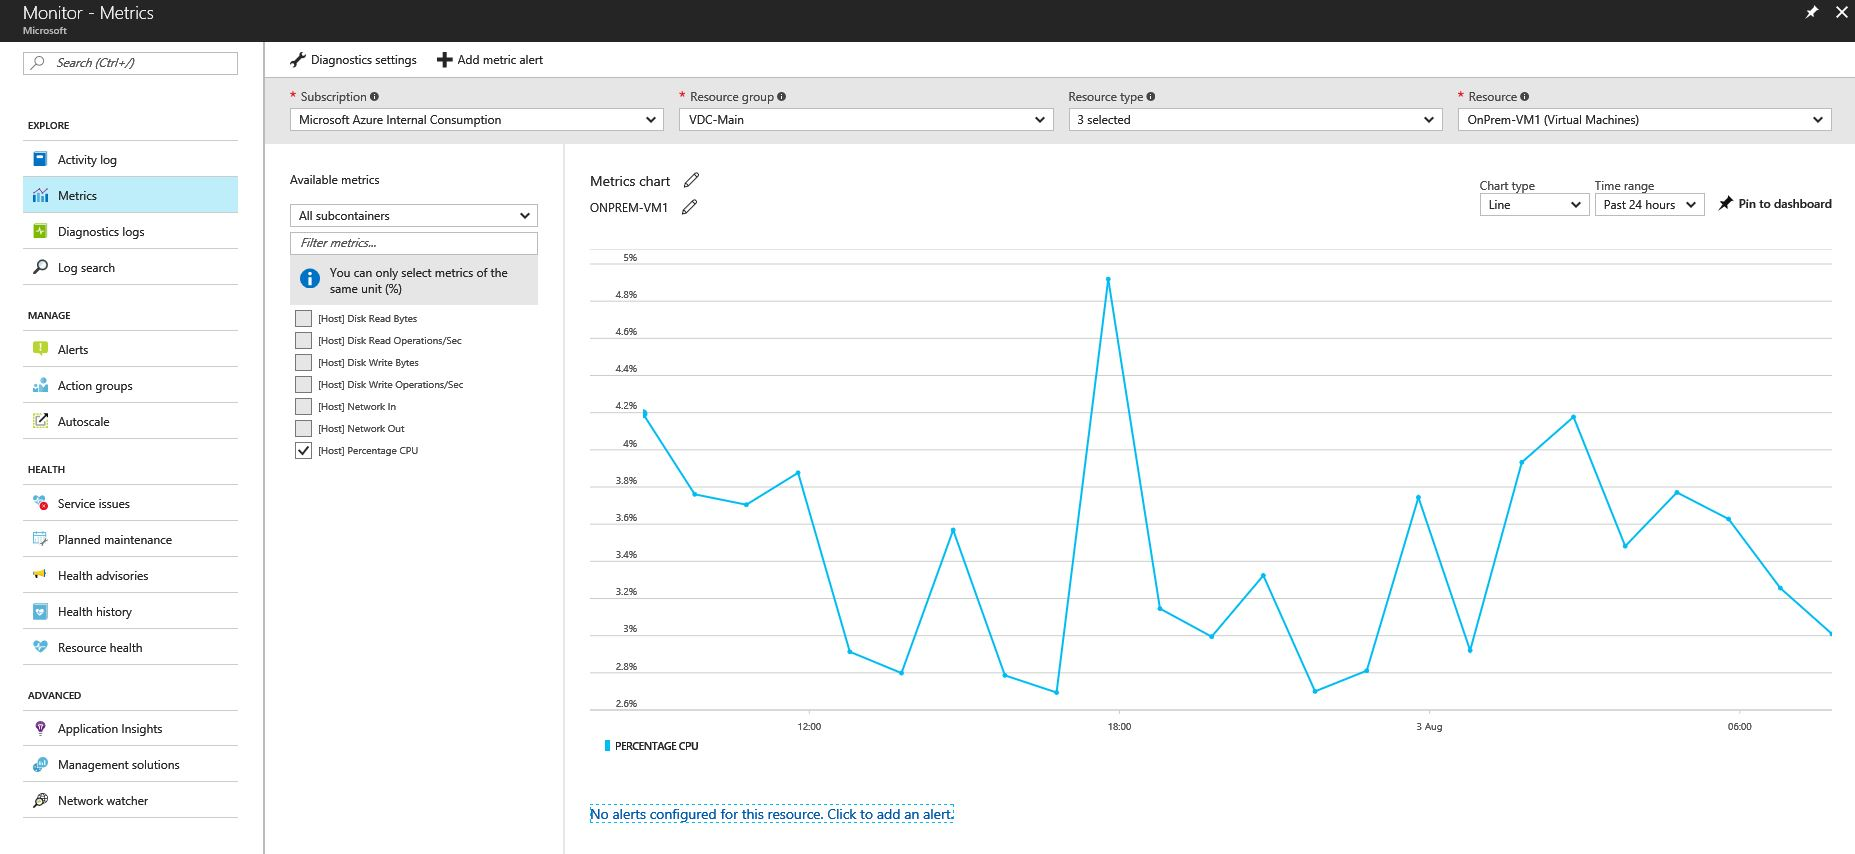
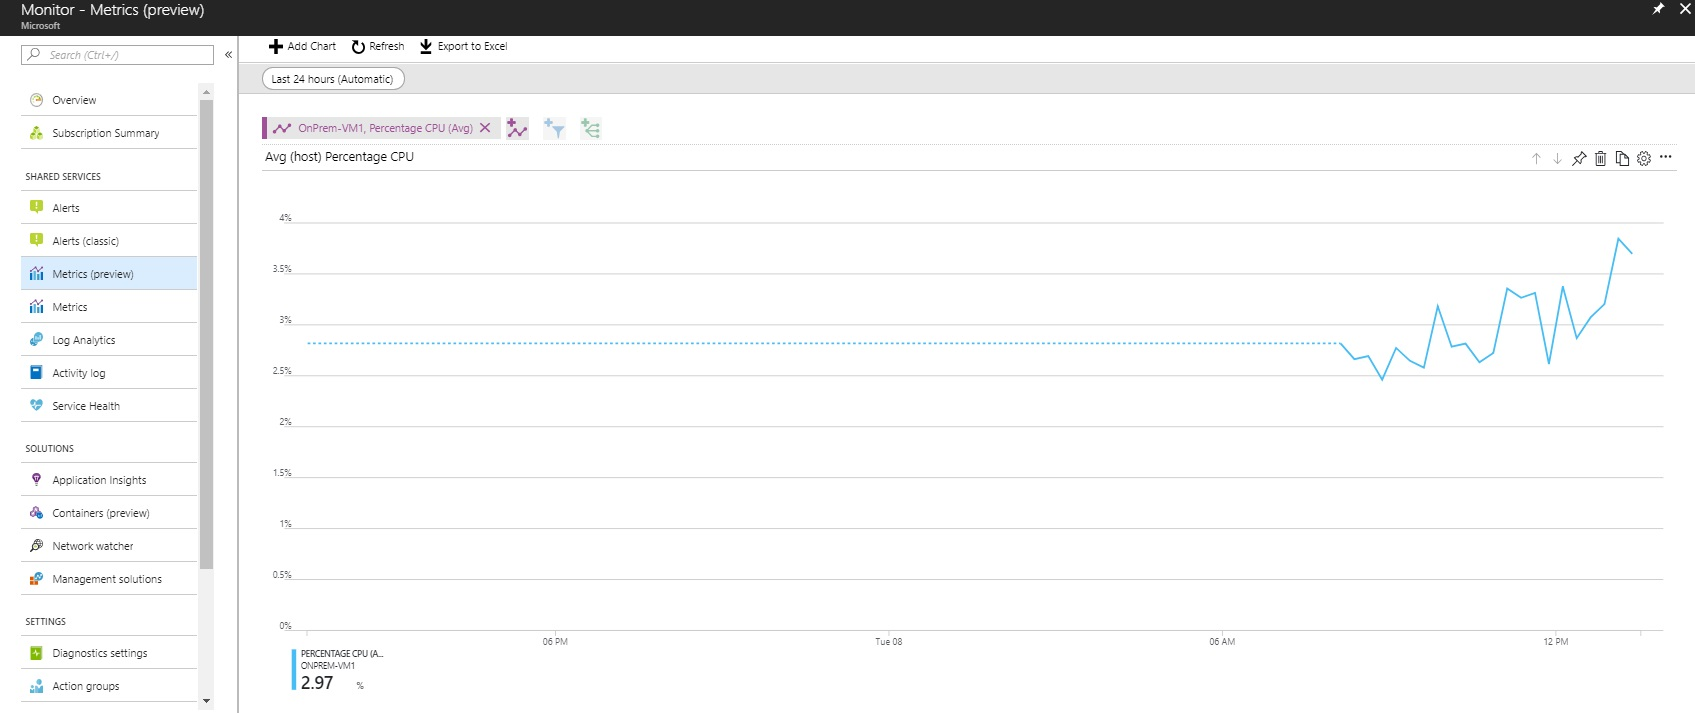
Updates to policy section

diff --git a/readme.md b/readme.md
@@ -26,6 +26,8 @@
 
 - [3.3: Implementing Azure Resource Policies](#armpolicies)
 
+- [3.4: Monitor Compliance Using Azure Policy](#policycompliance)
+
 **[Lab 4: Monitor the VDC Environment](#monitor)**
 
 - [4.1: Enable Network Watcher](#netwatcher)
@@ -409,7 +411,7 @@ Our NSG will define two inbound rules - one for HTTP and another for TCP port 30
 
 **1)** In the Azure portal under the resource group VDC-Hub, click 'Add' and search for 'Network Security Group'. Create a new NSG named *Hub-NSG*.
 
-**2)** Navigate to the newly created NSG and select it. Select 'Inbound Security Rules'. Click 'Add' to add a new rule and then click the 'Advanced' button. Use the following parameters:
+**2)** Navigate to the newly created NSG and select it. Select 'Inbound Security Rules'. Click 'Add' to add a new rule. Use the following parameters:
 
 - Name: *Allow-http*
 - Priority: *100*
@@ -485,19 +487,19 @@ Azure resource policies are used to place restrictions on what actions can be ta
 
 **1)** In the Azure portal, navigate to the VDC-Hub resource group and then click on *Policies* in the menu.
 
-**2)** Click on the 'Policies' tab in the right hand pane to see a list of available built-in resource policies.
+**2)** Select *Definitions* and then *Policy Definitions* in the right hand pane.
 
-**3)** Select the policy entitled 'Allowed Resource Types' and then click on 'JSON'. This shows you the JSON policy document - this simple example takes a list of resource types and prevents the ability to create them.
+**3)** Scroll down to the policy entitled 'Allowed Resource Types', click the '...', select 'View Definition' and then click on 'JSON'. This shows you the JSON policy document - this simple example takes a list of resource types and prevents the ability to create them.
 
 ![Azure Resource Policy Example](https://github.com/Araffe/vdc-networking-lab/blob/master/images/armpolicies1.jpg "Azure Resource Policy Example")
 
 **Figure 14:** Example Resource Policy - Allowed Resource Types
 
-**4)** Switch back to the 'Assignments' tab in the right hand pane and click 'Add'.
+**4)** Click on 'Assignments' in the menu and then click 'Assign Policy'.
 
 **5)** Use the following details to create the policy:
 
-- Policy: *Allowed Resource Types*
+- Policy Definition: *Allowed Resource Types*
 - Allowed Resource Types: *Select all 'Microsoft.Network' resources*
 - Display Name: *Allow Network*
 - ID: *Allow-Network*
@@ -559,15 +561,15 @@ az policy assignment delete -g VDC-Hub --name EnforceNaming
 az policy definition delete --name EnforceNaming
 </pre>
 
-**Bonus Section: Use Azure Policy to Identify Non-Compliant Resources**
+## 3.4: Monitor Compliance Using Azure Policy <a name="policycompliance"></a>
 
-_Note that currently (October 2017), the functionality referenced in this section is in Limited Preview, therefore it must be explicitly enabled on your subscription before it can be used. To do this, browse to https://aka.ms/getpolicy and click on 'sign up'. Select your subscription and then 'register'._
+In addition to the ability to define and assign resource policies, Azure Policy allows you to identify existing resources within a subscription or resource that are not compliant against the configured policies. In this section, we will use Azure Policy to view non-compliant resources within the VDC-Hub resource group.
 
-Azure Policy is a feature that expands upon the functionality explored in this section. In addition to the ability to define and assign resource policies, Azure Policy allows you to identify existing resources within a subscription or resource that are not compliant against the configured policies. In this section, we will define a new resource policy and assign it to the VDC-Hub resource group - we will then use Azure Policy to view non-compliant resources within this group.
+**1)** In the 'Policies' section under VDC-Hub, click on 'Definitions' and then '+ Policy Definition'. Name the policy 'compliance-test' and select your subscription under 'Definition Location'.
 
-**1)** In Azure Policy, click on 'Definitions' and then '+ Policy Definition'. Name the policy 'compliance-test' and select your subscription under 'Definition Location'.
+**2)** Select 'Use existing' under the category section and select 'Compute'.
 
-**2)** Cut and paste the following JSON into the 'Policy Rule and Parameters' box and then click 'save':
+**3)** Cut and paste the following JSON into the 'Policy Rule and Parameters' box and then click 'save':
 
 <pre lang="...">
 {
@@ -585,15 +587,15 @@ Azure Policy is a feature that expands upon the functionality explored in this s
 }
 </pre>
 
-**3)** Click on 'Assignments' and then 'Assign Policy'. Under 'Policy', select the policy created in the last step (compliance-test). Name the assignment 'compliance-test'.
+**4)** Click on 'Assignments' and then 'Assign Policy'. Under 'Policy Definition', select the policy created in the last step (compliance-test). Name the assignment 'compliance-test'.
 
-**4)** Ensure the pricing tier is 'Standard' (compliance information is only available at the Standard tier).
+**5)** Ensure the pricing tier is 'Standard' (compliance information is only available at the Standard tier).
 
-**5)** Under 'Scope', select the 'VDC-Hub' resource group. Finally, click on 'Assign'.
+**6)** Under 'Scope', ensure that the 'VDC-Hub' resource group is selected. Finally, click on 'Assign'.
 
-**6)** Click on the 'Compliance' menu option - after some time, this screen should show the resources within the VDC-Hub resource group that are not compliant with the policy (all of them, as none match the name 'test-*').
+**7)** Click on the 'Compliance' menu option - after some time, this screen should show the resources within the VDC-Hub resource group that are not compliant with the policy (all of them, as none match the name 'test-*').
 
-**Note: it can take around 20 minutes for the compliance information to be updated.**
+**Note: it can take around 20 minutes or more for the compliance information to be updated, so you may wish to return to this section.**
 
 ![Azure Policy - Compliance](https://github.com/Araffe/vdc-networking-lab/blob/master/images/PolicyCompliance.jpg "Azure Policy - Compliance")
 
@@ -716,45 +718,52 @@ Another useful feature of Network Watcher is the ability to trace the next hop f
 
 Azure Monitor is a tool that provides central monitoring of most Azure services, designed to give you infrastructure level diagnostics about a service and the surrounding environment. In this section of the lab, we will use Azure Monitor to look at metrics on a resource and create an alert to receive an email when a CPU threshold is crossed.
 
-**1)** Start by using the Azure portal to navigate to the Azure Monitor view by expanding the left hand main menu and selecting 'Monitor'. If it is not shown, select 'More Services' and search for it. The initial view is the Activity Log. This shows a filterable view of all activity in your subscription - you can filter based on timespan, event severity, resource type and operation. Modify some of the filter fields in this screen to narrow down the search criteria.
+**1)** Start by using the Azure portal to navigate to the Azure Monitor view by expanding the left hand main menu and selecting 'Monitor'. If it is not shown, select 'More Services' and search for it. Select 'Activity Log' from the left hand menu. This shows a filterable view of all activity in your subscription - you can filter based on timespan, event severity, resource type and operation. Modify some of the filter fields in this screen to narrow down the search criteria.
 
 ![Azure Monitor Activity Log](https://github.com/Araffe/vdc-networking-lab/blob/master/images/AzMon1.jpg "Azure Monitor Activity Log")
 
 **Figure 22:** Azure Monitor Activity Log
 
-**2)** In the Azure Monitor menu on the left, select 'Metrics'. At the top of the screen, select the 'VDC-OnPrem' resource group and then the 'OnPrem1_VM' virtual machine in the Resource drop-down menu. Under the 'Metrics' menu, select 'Host Percentage CPU' to view the CPU metrics for this VM.
+**2)** In the Azure Monitor menu on the left, select 'Metrics (Preview)'. In the 'resource' box at the top of the screen, search for 'onprem' and then select the 'OnPrem1_VM' virtual machine in the drop-down menu. Select 'host' as the sub-service and then 'Percentage CPU' as the metric.
 
 ![Azure Monitor CPU Metrics](https://github.com/Araffe/vdc-networking-lab/blob/master/images/AzMonCPU.jpg "Azure Monitor CPU Metrics")
 
 **Figure 23:** Azure Monitor CPU Metrics
 
-**3)** For all types of metric displayed, it is possible to configure alerts when a specific threshold is reached. In the CPU metric view, click on 'Add Metric Alert' at the top of the screen. Use the following parameters to configure the alerting rule:
+**3)** For all types of metric displayed, it is possible to configure alerts when a specific threshold is reached. Select 'Alerts' from the left hand menu and then click on 'New Alert Rule' at the top of the screen.
 
-- Name: *CPUAlert*
-- Threshold: *50%*
-- Period: *Over the last 5 minutes*
-- Email owners, contributors and readers: *Checked*
+**4)** Click on 'Select Target' and then choose your subscription. Select 'Virtual Machines' as the resource type and then choose 'OnPrem-VM1'.
 
-**4)** SSH to your OnPrem_VM1 virtual machine and install the 'Stress' tool:
+**5)** Click on 'Add Criteria' and then select 'Percentage CPU' as the signal type.
+
+**6)** Under 'Alert Logic', ensure the condition is 'Greater than' and set the threshold to 40%. Change the period to 'Over the last 1 minute'.
+
+**7)** Expand the section named 'Define Alert Details'. Name the alert rule 'alert-cpu' and give it a suitable description. Click OK.
+
+**7)** Expand the section named 'Define Action Group'. Name the action group 'alert-email' (use this for the short name as well). Under 'Actions', use the same name and select 'Email/SMS/Push/Voice'. In the resulting dialog box, configure your own email address. Select OK.
+
+**8)** On the main page, click 'Select Action Group' and select the group you have just configured.
+
+**9)** SSH to your OnPrem_VM1 virtual machine and install the 'Stress' tool:
 
 <pre lang="...">
 sudo apt-get install stress
 </pre>
 
-**5)** Use the Stress program to hog the CPU:
+**10)** Use the Stress program to hog the CPU:
 
 <pre lang="...">
 stress -c 50
 stress: info: [61727] dispatching hogs: 50 cpu, 0 io, 0 vm, 0 hdd
 </pre>
 
-**6)** After approximately 5 minutes, you should receive an email alerting you to the high CPU on your VM:
+**11)** After approximately 5 minutes, you should receive an email alerting you to the high CPU on your VM:
 
 ![Azure Monitor CPU Alert](https://github.com/Araffe/vdc-networking-lab/blob/master/images/AzMonAlert.jpg "Azure Monitor CPU Alert")
 
 **Figure 24:** Azure Monitor CPU Alert
 
-**7)** Stop the Stress program. After another few minutes you should receive another mail informing you that the CPU percentage has reduced.
+**12)** Stop the Stress program. After another few minutes you should receive another mail informing you that the CPU percentage has reduced.
 
 # Lab 5: Identity in the VDC Environment <a name="identity"></a>
 
